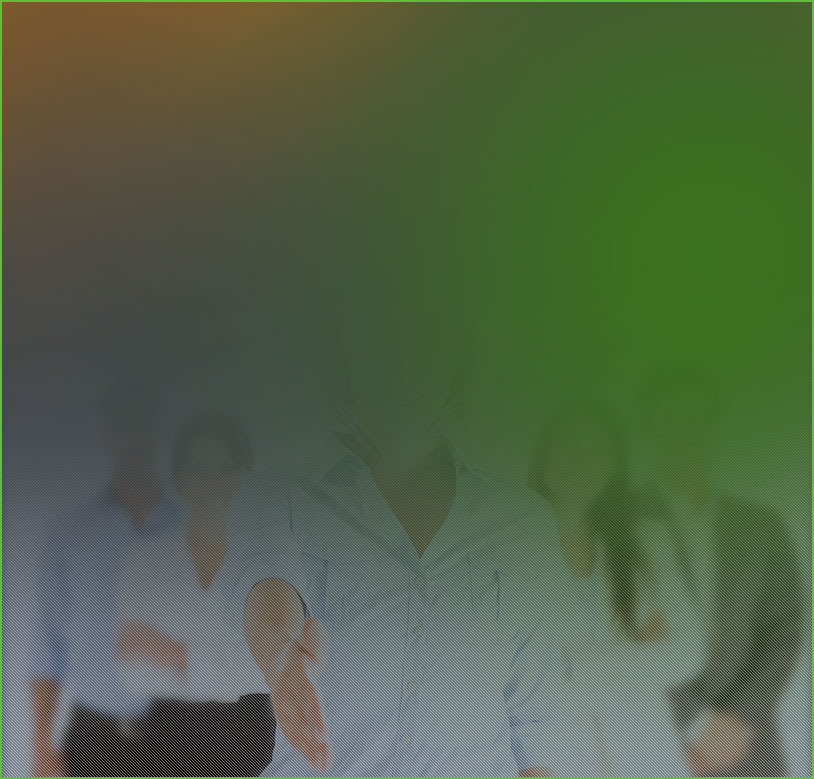
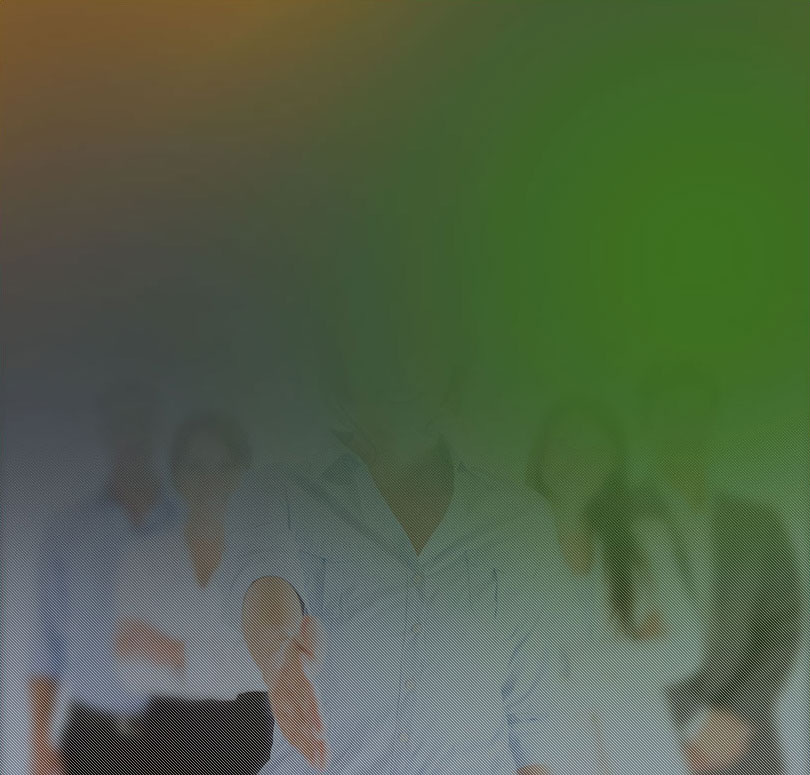
Внесены правки в верстку, сделана универсальная высота заглушки

Changed region(s): [[0.0, 0.0, 1.0, 1.0], [0.0, 0.0, 0.0309, 0.031]]

diff --git a/index.html b/index.html
@@ -13,7 +13,8 @@
     <p class="zp-closed__pleasure">Мы очень рады, что вы хотите зарегистрироваться в Z-Payment.</p>
     <div class="zp-closed__content">
       <p>Сервис работает уже 9 лет и заслужил доверие более <strong>10 000 продавцов</strong>, так как успешно помог оформить и оплатить свыше <strong>2 500 000 заказов</strong>. Последние 3 года проект работает практически автономно за счет усилий его приверженцев и команды поддержки, но сейчас пришло время для более современного сервиса электронной торговли. <em>Поэтому регистрация новых продавцов в Z-Payment прекращена.</em></p>
-      <p>Сервис продолжит работу, но только для старых продавцов, а новых клиентов рады пригласить в&nbsp;<a href="https://pokupo.ru/">Торговую&nbsp;платформу Pokupo</a>. Это комплексное решение для организации продаж в сети, которое включает платежный шлюз Z-Payment и многие другие сервисы. Вы сможете не только принимать платежи на сайте, но&nbsp;и&nbsp;запустить собственный интернет магазин без каких-либо затрат и заморочек с настройками сайта.</p>
+      <p>Сервис продолжит работу, но только для старых продавцов, а новых клиентов рады пригласить в <a href="https://pokupo.ru/">Торговую&nbsp;платформу Pokupo</a>. Это комплексное решение для организации продаж в сети, которое включает платежный шлюз Z-Payment и многие другие сервисы. Вы сможете не только принимать платежи на сайте, но&nbsp;и&nbsp;запустить собственный интернет магазин без каких-либо затрат и заморочек с настройками сайта.</p>
+      <p>Платежный протокол Pokupo полностью совместим с протоколом Z-Payment, это позволяет использовать <a href="https://z-payment.com/cms.php">CMS&nbsp;модули&nbsp;Z-Payment</a> для быстрой интеграции c Pokupo.</p>
       <p>Pokupo позволяет продавать как физические товары, так и электронные с автоматической доставкой покупателю, также есть механизм продажи товаров партнеров и возможность выставлять свои товары на сторонних сайтах.</p>
     </div>
     <p class="zp-closed__sale"><b>Внимание!</b> Первым 50 продавцам предоставляется льготный тариф, для&nbsp;этого&nbsp;укажите в форме регистрации код приглашения: <strong>zpayment2017</strong></p>

diff --git a/styles/style.css b/styles/style.css
@@ -4,10 +4,21 @@ body {
 }
 
 .zp-closed {
-  width: 814px;
-  height: 779px;
+  /* Правки верстки */
+  width: 810px;
+  /* height: 775px; */
+  text-align: left;
+  /* END - Правки верстки */
   margin: 0 auto;
+  /* Правки верстки */
+  padding-bottom: 66px;
+  /* END - Правки верстки */
   background-image: url(../images/bg.jpg);
+  /* Правки верстки */
+  background-repeat: no-repeat;
+  background-size: cover;
+  border: 2px solid #61bf37;
+  /* END - Правки верстки */
 }
 
 .zp-closed p {
